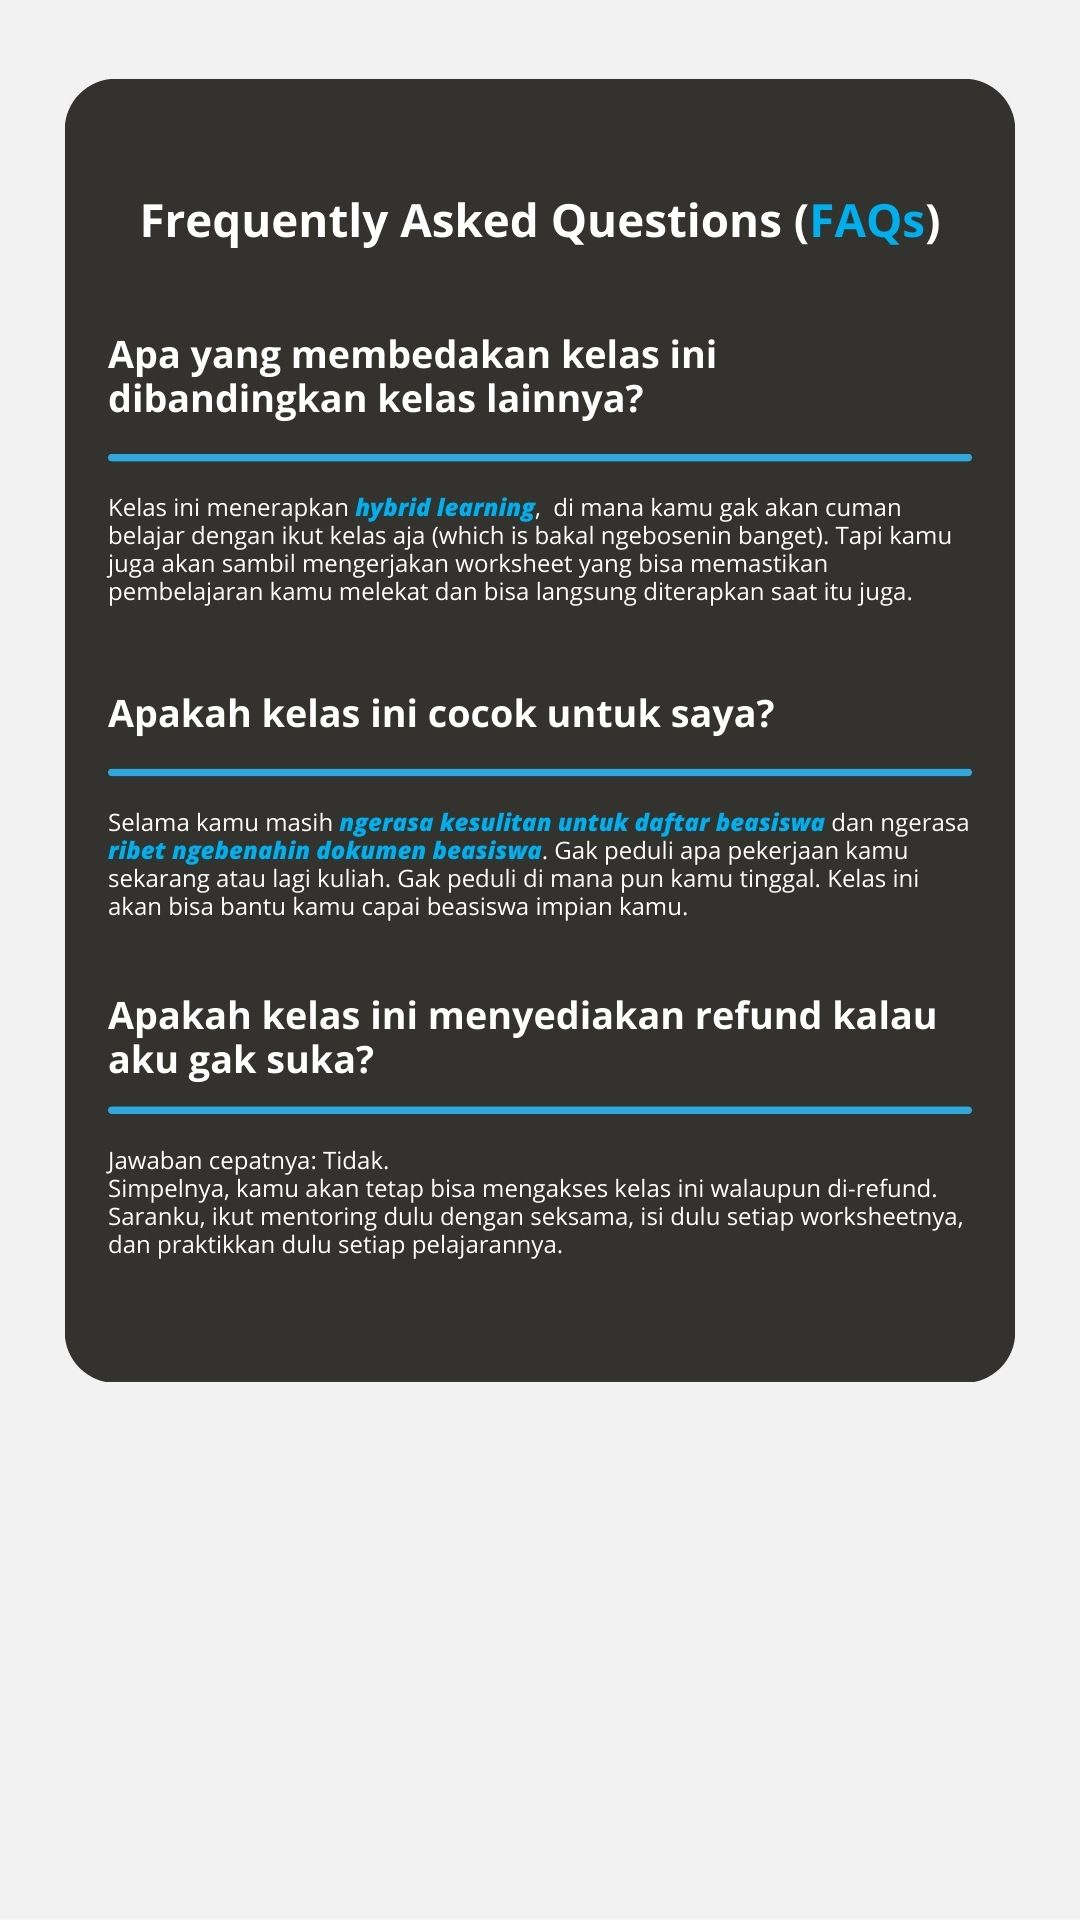
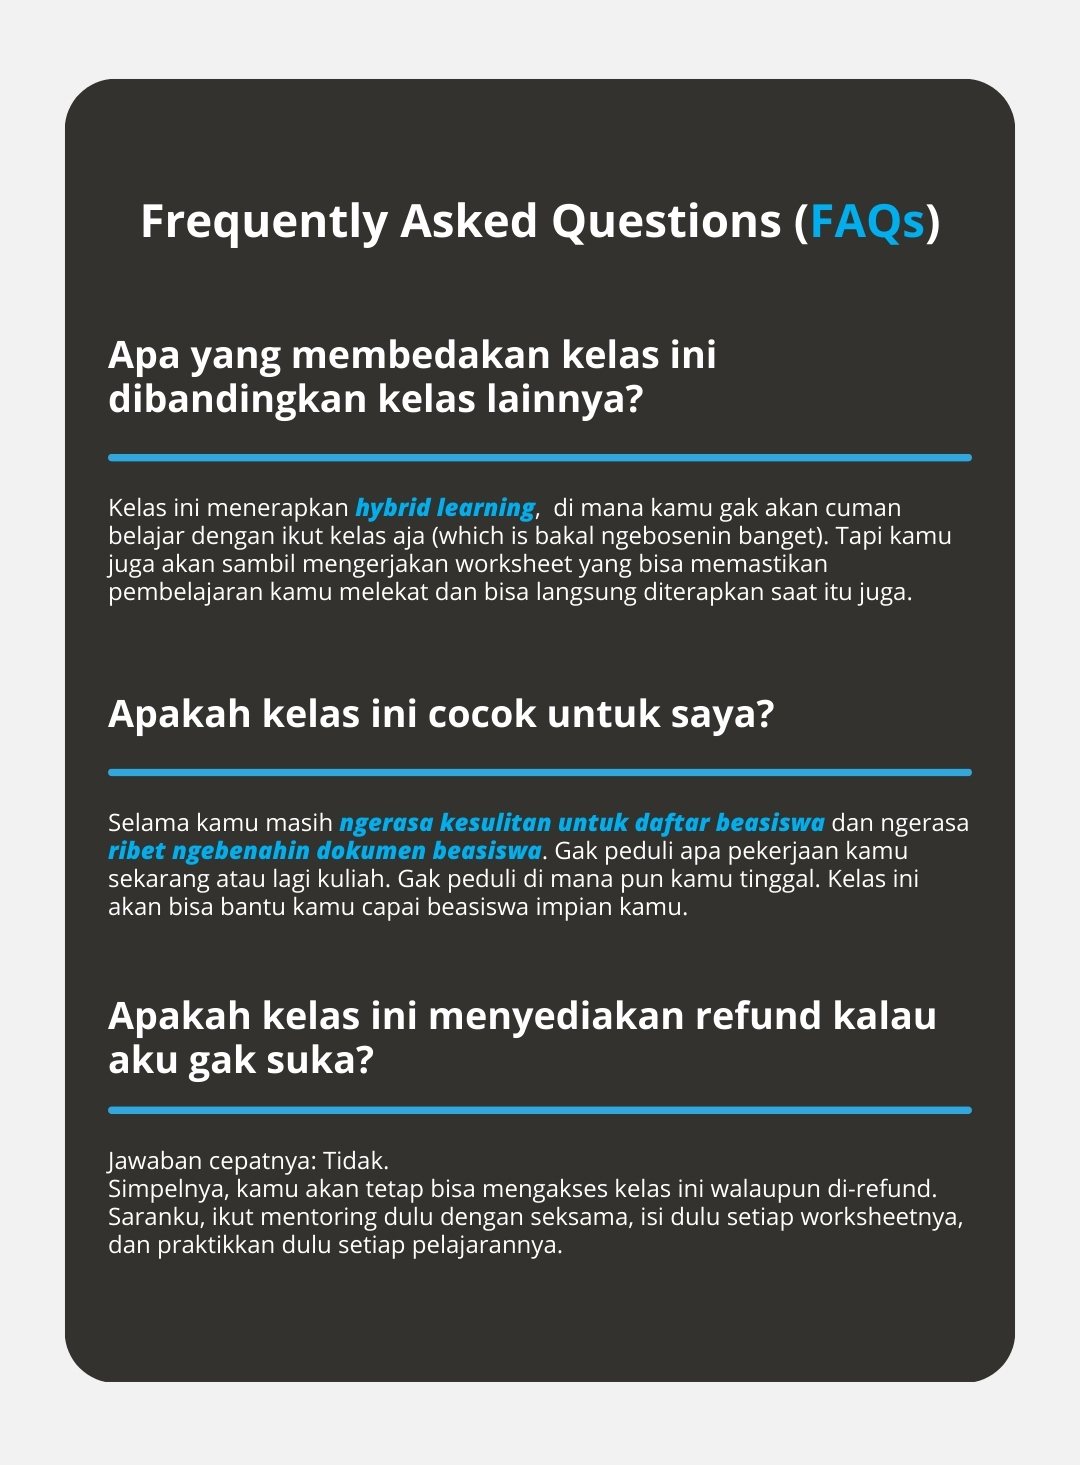
revisi sebelumnya

diff --git a/scholarship.html b/scholarship.html
@@ -50,6 +50,21 @@
 
     <!-- My Style -->
     <link rel="stylesheet" href="css/style.css" />
+    <style>
+      .container {
+        display: flex;
+        justify-content: center;
+        align-items: center;
+        min-height: 100vh; /* Ensures the container is tall enough */
+        padding: 20px; /* Adds padding if needed */
+      }
+
+      img {
+        max-width: 100%;
+        height: auto;
+        object-fit: contain; /* Ensures the entire image is visible */
+      }
+    </style>
   </head>
 
   <!-- Intro Section start -->

diff --git a/css/style.css b/css/style.css
@@ -162,13 +162,6 @@ body {
   justify-content: center;
 }
 
-.scholarship-intro {
-  display: flex;
-  justify-content: center;
-  align-items: center;
-  height: 100vh;
-}
-
 /* About */
 
 .about,
